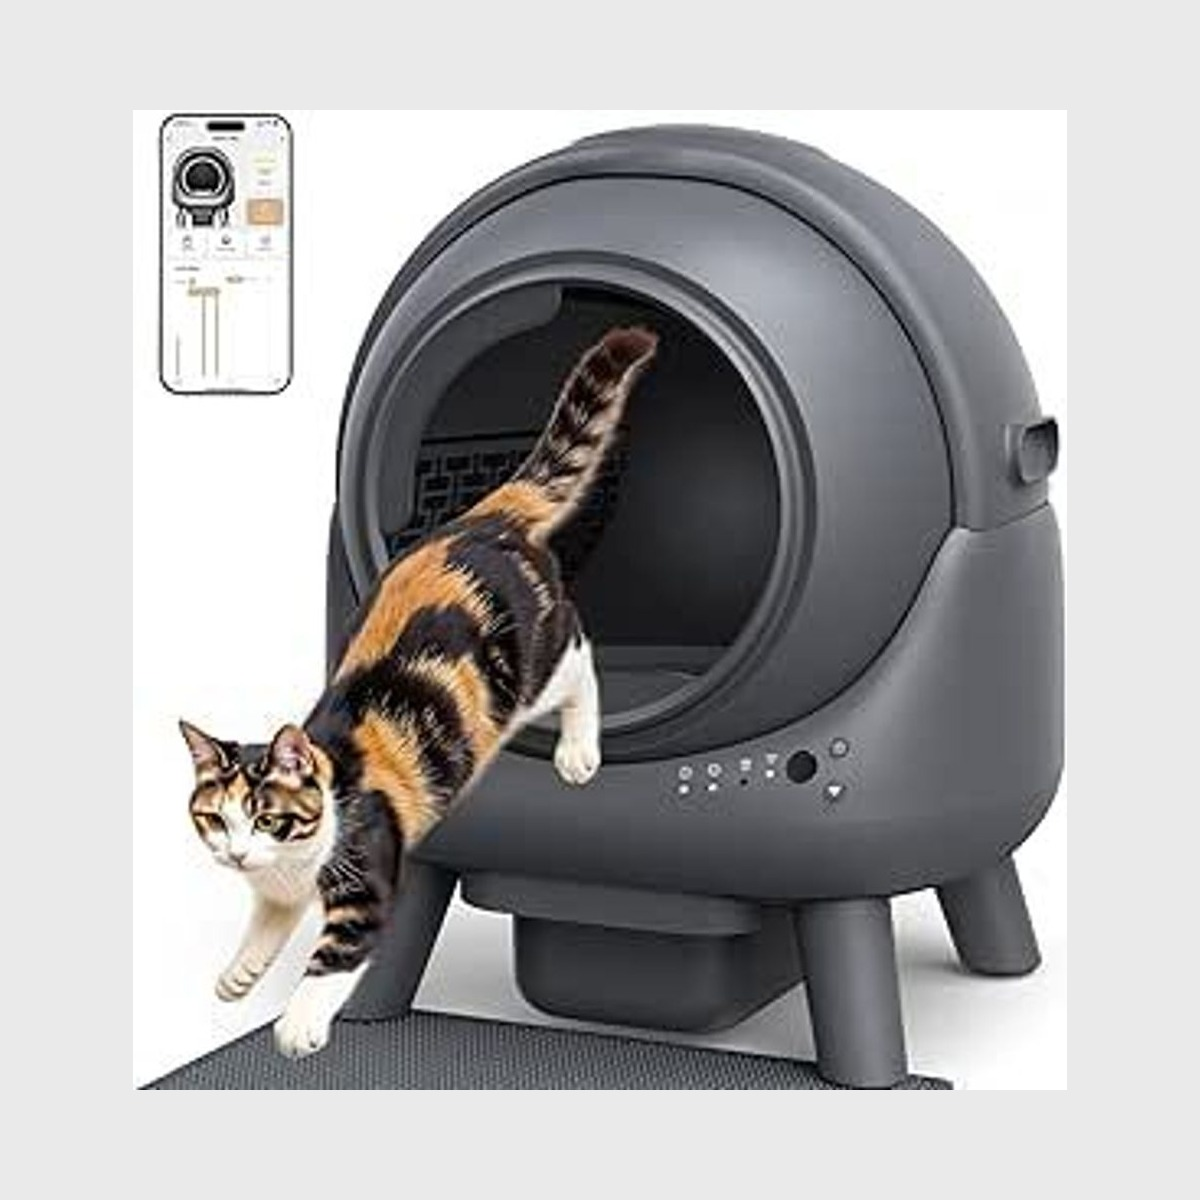
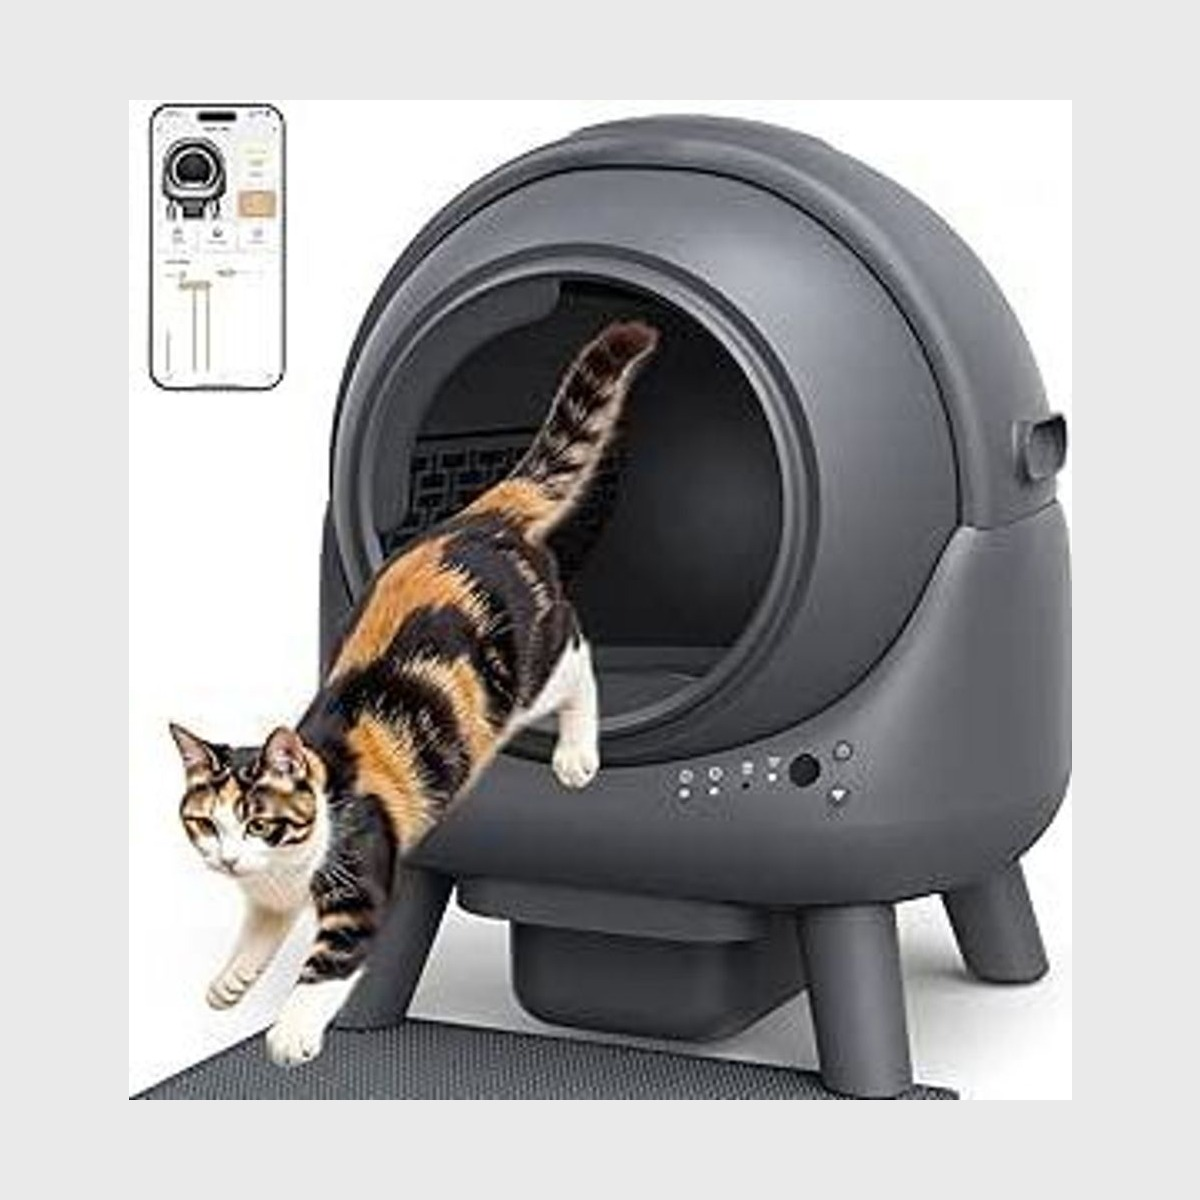
improve product import v4

diff --git a/scripts/add-product.js b/scripts/add-product.js
@@ -29,6 +29,20 @@ function cleanProductName(name = "") {
     .trim();
 }
 
+function shortenProductName(name = "") {
+  const cleaned = normalizeText(name)
+    .replace(/\(.*?\)/g, "")
+    .replace(/[,]/g, "")
+    .replace(/[-|–]/g, " ")
+    .replace(/\s+/g, " ")
+    .trim();
+
+  const words = cleaned.split(" ").filter(Boolean);
+  const short = words.slice(0, 6).join(" ");
+
+  return short.length > 60 ? `${short.slice(0, 60)}...` : short;
+}
+
 function extractPrice(text) {
   if (!text) return null;
 
@@ -227,6 +241,27 @@ function normalizeBackgroundColor(bg) {
   };
 }
 
+async function isCleanPackshot(inputBuffer) {
+  const { data } = await sharp(inputBuffer)
+    .resize(50, 50)
+    .removeAlpha()
+    .raw()
+    .toBuffer({ resolveWithObject: true });
+
+  let variation = 0;
+
+  for (let i = 0; i < data.length - 3; i += 3) {
+    const diff =
+      Math.abs(data[i] - data[i + 3]) +
+      Math.abs(data[i + 1] - data[i + 4]) +
+      Math.abs(data[i + 2] - data[i + 5]);
+
+    variation += diff;
+  }
+
+  return variation < 50000;
+}
+
 async function buildPremiumSquareImage(inputBuffer, outputPath) {
   const meta = await sharp(inputBuffer).metadata();
   const width = meta.width || 0;
@@ -240,13 +275,32 @@ async function buildPremiumSquareImage(inputBuffer, outputPath) {
   const isPortrait = ratio < 0.8;
   const isLandscape = ratio > 1.25;
 
+  const sampledBg = await getAverageCornerColor(inputBuffer);
+  const background = normalizeBackgroundColor(sampledBg);
+
   let trimmedBuffer = inputBuffer;
   try {
     trimmedBuffer = await sharp(inputBuffer)
-      .trim({ threshold: 8 })
+      .flatten({ background })
+      .trim({
+        background,
+        threshold: 18,
+      })
       .toBuffer();
   } catch {
     trimmedBuffer = inputBuffer;
+  }
+
+  try {
+    trimmedBuffer = await sharp(trimmedBuffer)
+      .flatten({ background: { r: 255, g: 255, b: 255, alpha: 1 } })
+      .trim({
+        background: { r: 255, g: 255, b: 255, alpha: 1 },
+        threshold: 24,
+      })
+      .toBuffer();
+  } catch {
+    // keep previous trimmedBuffer
   }
 
   const trimmedMeta = await sharp(trimmedBuffer).metadata();
@@ -258,17 +312,14 @@ async function buildPremiumSquareImage(inputBuffer, outputPath) {
 
   const CANVAS = 1200;
 
-  const sampledBg = await getAverageCornerColor(inputBuffer);
-  const background = normalizeBackgroundColor(sampledBg);
-
   let resizedBuffer;
   let resizedMeta;
 
   if (likelyPackshot) {
     resizedBuffer = await sharp(trimmedBuffer)
       .resize({
-        width: 940,
-        height: 940,
+        width: 1020,
+        height: 1020,
         fit: "inside",
         withoutEnlargement: false,
       })
@@ -276,10 +327,10 @@ async function buildPremiumSquareImage(inputBuffer, outputPath) {
 
     resizedMeta = await sharp(resizedBuffer).metadata();
   } else if (isLandscape) {
-    resizedBuffer = await sharp(inputBuffer)
+    resizedBuffer = await sharp(trimmedBuffer)
       .resize({
-        width: 1040,
-        height: 1040,
+        width: 1080,
+        height: 1080,
         fit: "inside",
         position: "attention",
         withoutEnlargement: false,
@@ -290,8 +341,8 @@ async function buildPremiumSquareImage(inputBuffer, outputPath) {
   } else {
     resizedBuffer = await sharp(trimmedBuffer)
       .resize({
-        width: 980,
-        height: 980,
+        width: 1000,
+        height: 1000,
         fit: "inside",
         position: "center",
         withoutEnlargement: false,
@@ -308,7 +359,7 @@ async function buildPremiumSquareImage(inputBuffer, outputPath) {
 
   let top = Math.round((CANVAS - finalHeight) / 2);
   if (likelyPackshot) {
-    top -= 20;
+    top -= 10;
   }
   if (top < 0) top = 0;
 
@@ -353,7 +404,7 @@ async function downloadAndCropImage(imageUrl, id, pageUrl) {
       responseType: "arraybuffer",
       headers: {
         "User-Agent":
-          "Mozilla/5.0 (Windows NT 10.0; Win64; x64) AppleWebKit/537.36 (KHTML, like Gecko) Chrome/124.0 Safari/537.36",
+          "Mozilla/5.0 (Windows NT 10.0; Win64; x64) AppleWebKit/537.36",
         Referer: pageUrl,
       },
       timeout: 20000,
@@ -361,12 +412,28 @@ async function downloadAndCropImage(imageUrl, id, pageUrl) {
 
     const inputBuffer = Buffer.from(response.data);
 
+    const cleanPackshot = await isCleanPackshot(inputBuffer);
+
+    if (cleanPackshot) {
+      console.log("✅ Clean image detected → no extra styled background");
+
+      await sharp(inputBuffer)
+        .resize(1200, 1200, {
+          fit: "contain",
+          background: { r: 255, g: 255, b: 255, alpha: 1 },
+        })
+        .jpeg({ quality: 92 })
+        .toFile(outputPath);
+
+      return `/products/${outputFilename}`;
+    }
+
+    console.log("🎨 Complex image detected → applying smart premium framing");
     await buildPremiumSquareImage(inputBuffer, outputPath);
 
     return `/products/${outputFilename}`;
   } catch (error) {
-    console.warn("Image download/crop failed, using remote image URL instead.");
-    console.warn(error.message);
+    console.warn("Image failed:", error.message);
     return finalImageUrl;
   }
 }
@@ -416,12 +483,12 @@ async function main() {
     console.log("\n🔎 Scraping product page...");
     const scraped = await scrapeProduct(productUrl);
 
-    let name = scraped.name;
+    let fullName = scraped.name;
     let price = scraped.price;
     let imageUrl = scraped.imageUrl;
 
-    if (!name) {
-      name = (await ask("Product name not found. Enter it manually: ")).trim();
+    if (!fullName) {
+      fullName = (await ask("Product name not found. Enter it manually: ")).trim();
     }
 
     if (!price) {
@@ -433,7 +500,7 @@ async function main() {
       imageUrl = (await ask("Image URL not found. Enter it manually: ")).trim();
     }
 
-    if (!name) {
+    if (!fullName) {
       throw new Error("Product name is required.");
     }
 
@@ -441,9 +508,10 @@ async function main() {
       throw new Error("A valid price is required.");
     }
 
-    const id = slugify(name, { lower: true, strict: true }).slice(0, 60);
-    const category = guessCategory(name);
-    const tags = guessTags(name, price);
+    const shortName = shortenProductName(fullName);
+    const id = slugify(fullName, { lower: true, strict: true }).slice(0, 60);
+    const category = guessCategory(fullName);
+    const tags = guessTags(fullName, price);
     const commission_percentage = getCommissionPercentage(price);
 
     console.log("\n🖼 Downloading and formatting image...");
@@ -451,7 +519,8 @@ async function main() {
 
     const product = {
       id,
-      name,
+      name: shortName,
+      full_name: fullName,
       price,
       commission_percentage,
       category,
